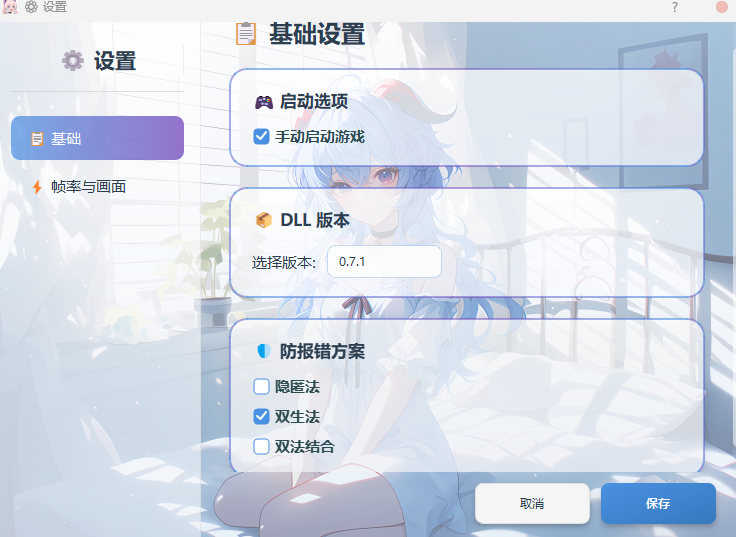
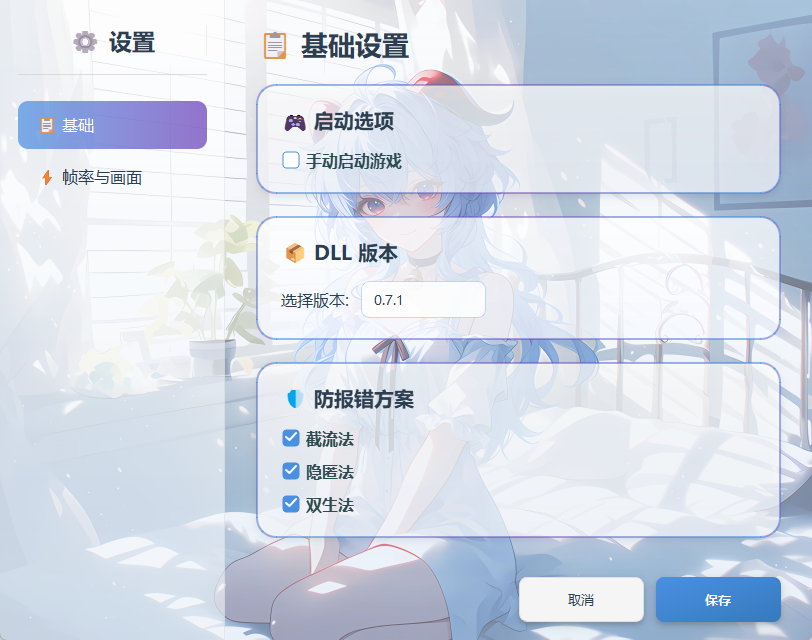
V2.0.9

diff --git a/README.md b/README.md
@@ -4,7 +4,7 @@
 
 **✅ 6.2 版本可用**
 
-![Version](https://img.shields.io/badge/version-2.0.8-blue.svg)
+![Version](https://img.shields.io/badge/version-2.0.9-blue.svg)
 ![Platform](https://img.shields.io/badge/platform-Windows-lightgrey.svg)
 ![License](https://img.shields.io/badge/license-Proprietary-red.svg)
 [![GitHub all releases](https://img.shields.io/github/downloads/CHN-HelloWorld/GIML/total)](https://github.com/CHN-HelloWorld/GIML/releases/latest)
@@ -62,8 +62,8 @@
 
 **基础设置**：
 - **DLL 版本选择**：遇到"与服务器断开连接"或者"非法工具错误"可尝试切换版本
-- **防报错方案**：隐匿法（默认）/ 双生法（更快）/ 双法结合（更全面）
-- **手动启动游戏**：仅启动 Mod 加载器，手动启动游戏
+- **防报错方案**：截流法 / 隐匿法 / 双生法（支持多选，默认全选）
+- **手动启动游戏**：仅启动 Mod 加载器，在 10 秒内手动启动游戏
 
 **帧率与画面设置**：目标帧率、窗口模式、显示器选择、分辨率、HDR 等
 
@@ -107,11 +107,11 @@
 
 | 方案 | 特点 |
 |---|---|
-| 隐匿法 | 默认，传统方案，稳定可靠 |
+| 截流法 | 内核级网络拦截，阻止数据上报 |
+| 隐匿法 | 传统方案，稳定可靠 |
 | 双生法 | 更轻量，启动更快，针对性强 |
-| 双法结合 | 双重防护，更全面但稍慢 |
 
-不确定选哪个，保持默认"隐匿法"即可。
+**提示**：三种方案可同时勾选，默认全选以获得最佳防护效果。
 
 ### Q: 帧率应该设置多少？
 
@@ -136,10 +136,10 @@
 | 项目 | 信息 |
 |---|---|
 | 项目名称 | GIML (Genshin Impact Mod Launcher) |
-| 版本 | 2.0.8 |
+| 版本 | 2.0.9 |
 | 作者 | Aether |
 | 许可证 | 专有软件许可证 (Proprietary License) |
-| 更新时间 | 2025 年 12 月 16 日 |
+| 更新时间 | 2025 年 12 月 24 日 |
 
 ## 🤝 反馈与支持
 
